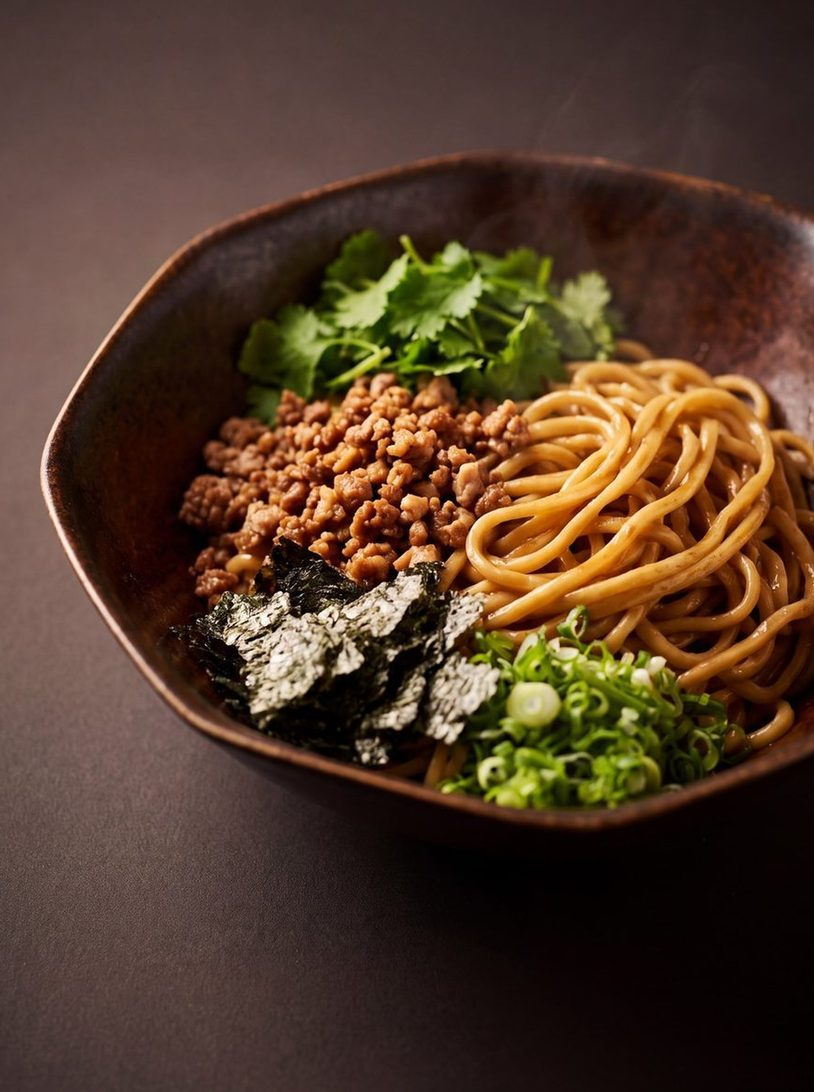
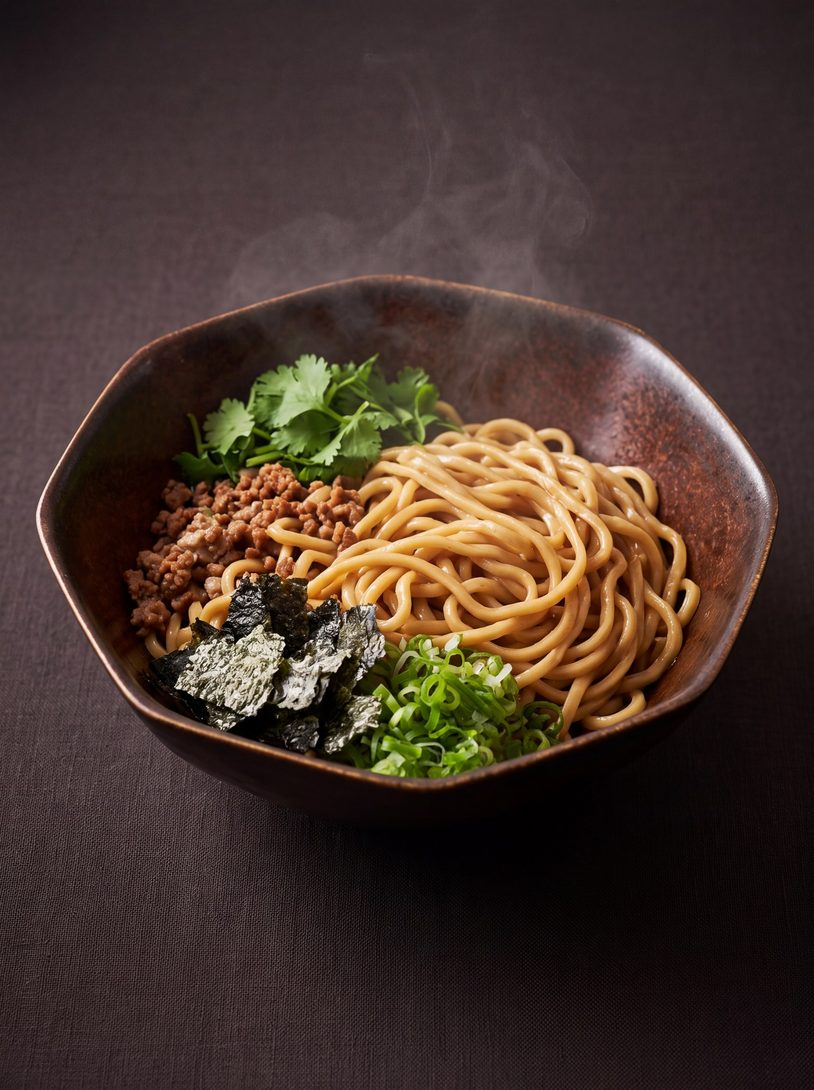
hongkong: 5 private previews

diff --git a/nojo-ramen/index.html b/nojo-ramen/index.html
@@ -57,7 +57,7 @@ html[data-lang="zh"] .ce{display:none}
 /* frame matches the photograph's own 3:4 aspect, so the bowl is never cropped by the frame */
 /* ONE frame. The frame's own padding is the breathing room, so the bowl never touches an edge
    and there is no frame-inside-a-frame. */
-.hero-ph{position:absolute;z-index:2;right:3vw;top:112px;width:clamp(300px,32vw,470px);aspect-ratio:1500/2013;border:1px solid #443830;background:#241c16;padding:26px;box-shadow:0 30px 80px rgba(0,0,0,.45)}
+.hero-ph{position:absolute;z-index:2;right:3vw;top:112px;width:clamp(300px,32vw,470px);aspect-ratio:1500/2009;border:1px solid #443830;background:#241c16;padding:26px;box-shadow:0 30px 80px rgba(0,0,0,.45)}
 .hero-ph img{width:100%;height:100%;object-fit:contain;object-position:50% 50%}
 .hero-ph::after{content:"";position:absolute;inset:10px;pointer-events:none;background:linear-gradient(180deg,transparent 58%,rgba(20,15,12,.42) 100%)}
 /* the fact strip used to be absolutely positioned, so its border-top cut straight through the
@@ -256,7 +256,7 @@ html[data-lang="zh"] .ce{display:none}
 <button class="chip" id="chip" type="button"><span class="ce">繁體中文</span><span class="cz">English</span></button>
 
 <header class="hero" id="top">
-  <figure class="hero-ph"><img src="img/03.jpg?v=d5a53c65" alt="Dry-tossed noodles with minced pork, nori and spring onion at NOJO"></figure>
+  <figure class="hero-ph"><img src="img/03.jpg?v=4329fd22" alt="Dry-tossed noodles with minced pork, nori and spring onion at NOJO"></figure>
   <div class="hero-in">
     <p class="k"><xen>Central · Hong Kong</xen><xzh>香港 · 中環</xzh></p>
     <p class="hk2">H CODE · THE STEPS · 45 POTTINGER ST</p>
@@ -294,7 +294,7 @@ html[data-lang="zh"] .ce{display:none}
         <p><xen>The kitchen cooks ramen with an izakaya heart and a noticeable Western touch. The soup is made by simmering free-range chicken for eight hours, noodles are lifted to order, and around the bowl sit plates built for sake: sakura shrimp and corn tempura, sake lees fried chicken, kelp and butter fries. The cellar stays small and personal, nine sakes from four family breweries in Fukuoka, Ehime and Yamanashi.</xen><xzh>廚房以居酒屋的心做拉麵，帶一點西式筆觸。湯底以走地雞熬足八小時，麵條即點即煮;碗旁是為清酒而生的小食：櫻花蝦粟米天婦羅、酒粕醃漬炸雞、昆布牛油薯條。酒藏小而個人，九款清酒來自福岡、愛媛、山梨的四間家族酒藏。</xzh></p>
       </div>
       <figure class="frame">
-        <img src="img/01.jpg?v=1aca5dc3" alt="The long communal table at NOJO at dusk">
+        <img src="img/01.jpg?v=02d617fe" alt="The long communal table at NOJO at dusk">
         <figcaption class="fcap"><span><xen>The long table at dusk</xen><xzh>黃昏的長桌</xzh></span><span>CENTRAL, HK</span></figcaption>
       </figure>
     </div>
@@ -307,13 +307,13 @@ html[data-lang="zh"] .ce{display:none}
     <h2><xen>From the kitchen</xen><xzh>廚房直送</xzh></h2>
     <div class="cards">
       <article class="card c1">
-        <div class="im"><img src="img/06.jpg?v=051b2a15" alt="Soft egg, red onion and spring onion in eight-hour chicken broth ramen"></div>
+        <div class="im"><img src="img/06.jpg?v=35f18f69" alt="Soft egg, red onion and spring onion in eight-hour chicken broth ramen"></div>
         <p class="ci">01</p>
         <h3><xen>Eight-hour chicken broth ramen</xen><xzh>八小時雞湯拉麵</xzh></h3>
         <p><xen>Free-range chicken, simmered for eight hours</xen><xzh>走地雞，熬足八小時</xzh></p>
       </article>
       <article class="card c2">
-        <div class="im"><img src="img/04.jpg?v=3901e5a6" alt="Sakura shrimp and corn tempura"></div>
+        <div class="im"><img src="img/04.jpg?v=bd80d8f7" alt="Sakura shrimp and corn tempura"></div>
         <p class="ci">02</p>
         <h3><xen>Sakura shrimp &amp; corn tempura</xen><xzh>櫻花蝦粟米天婦羅</xzh></h3>
         <p><xen>From the izakaya side of the menu</xen><xzh>居酒屋小食一列</xzh></p>
@@ -410,7 +410,7 @@ html[data-lang="zh"] .ce{display:none}
       </div>
     </div>
     <figure class="frame menuph">
-      <img src="img/02.jpg?v=6d44f618" alt="The printed NOJO sake and wine list">
+      <img src="img/02.jpg?v=9a354624" alt="The printed NOJO sake and wine list">
       <figcaption class="fcap"><span><xen>The printed list, as it stands on the counter</xen><xzh>櫃檯上的印刷酒單</xzh></span><span>HKD</span></figcaption>
     </figure>
     <p class="hint"><xen>The kitchen menu is printed in house. For tonight's dishes and prices, ask at the door or call ahead.</xen><xzh>廚房菜單於店內提供。當晚菜式及價格，歡迎到店查詢或致電了解。</xzh></p>
